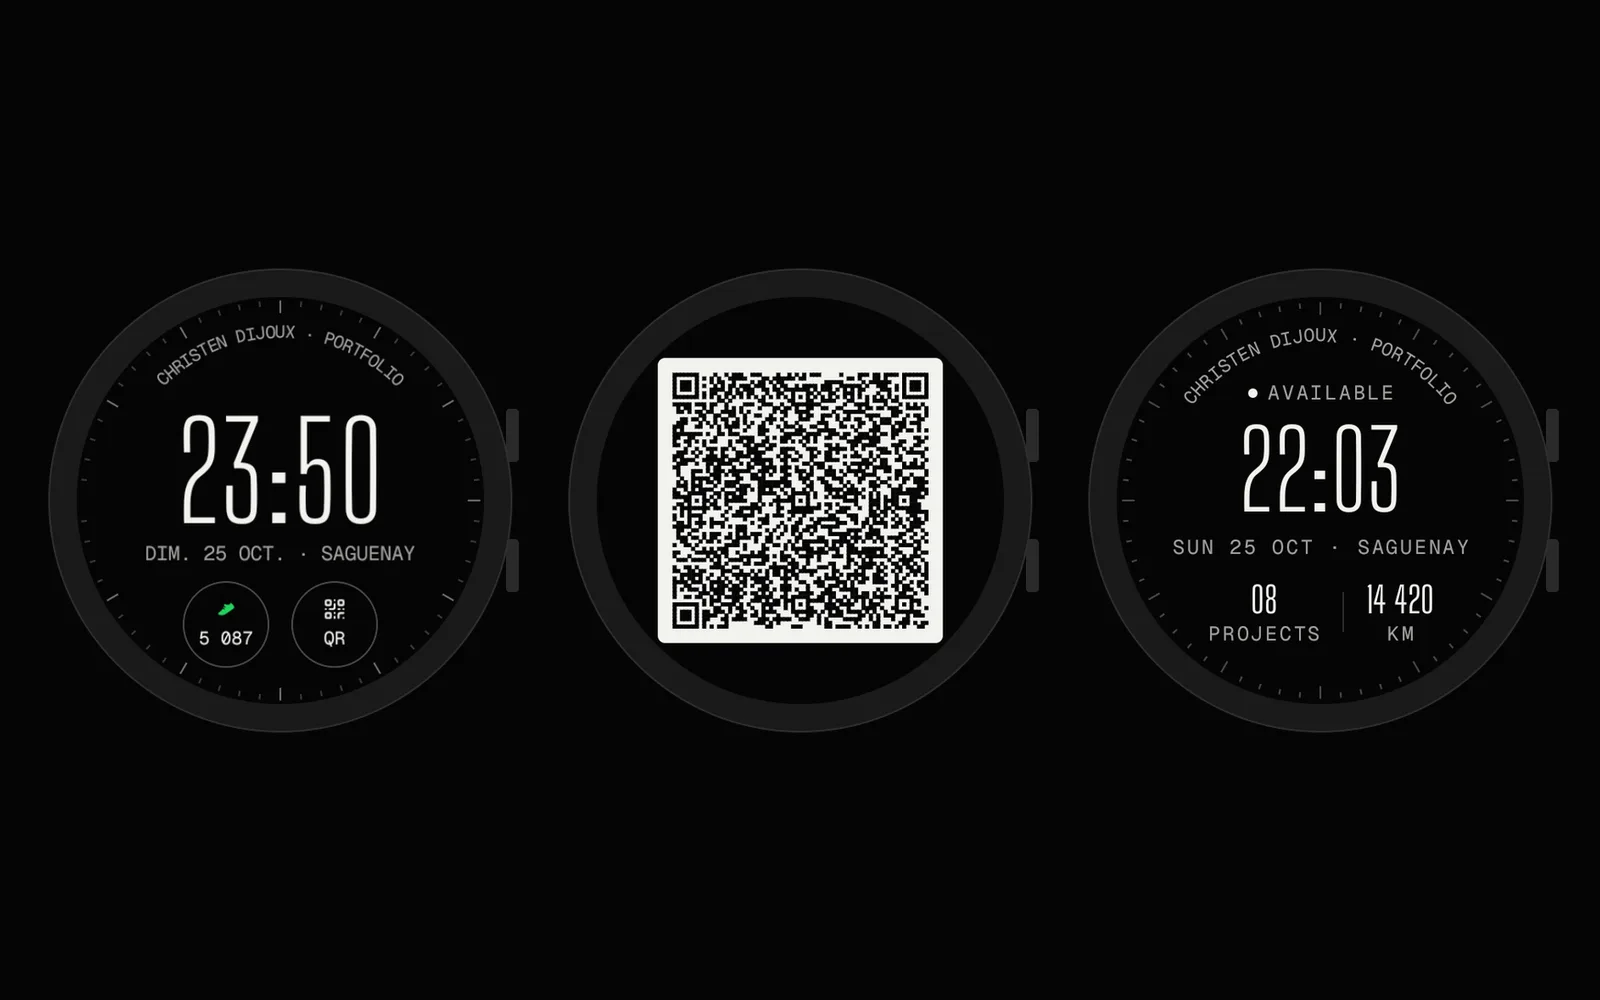
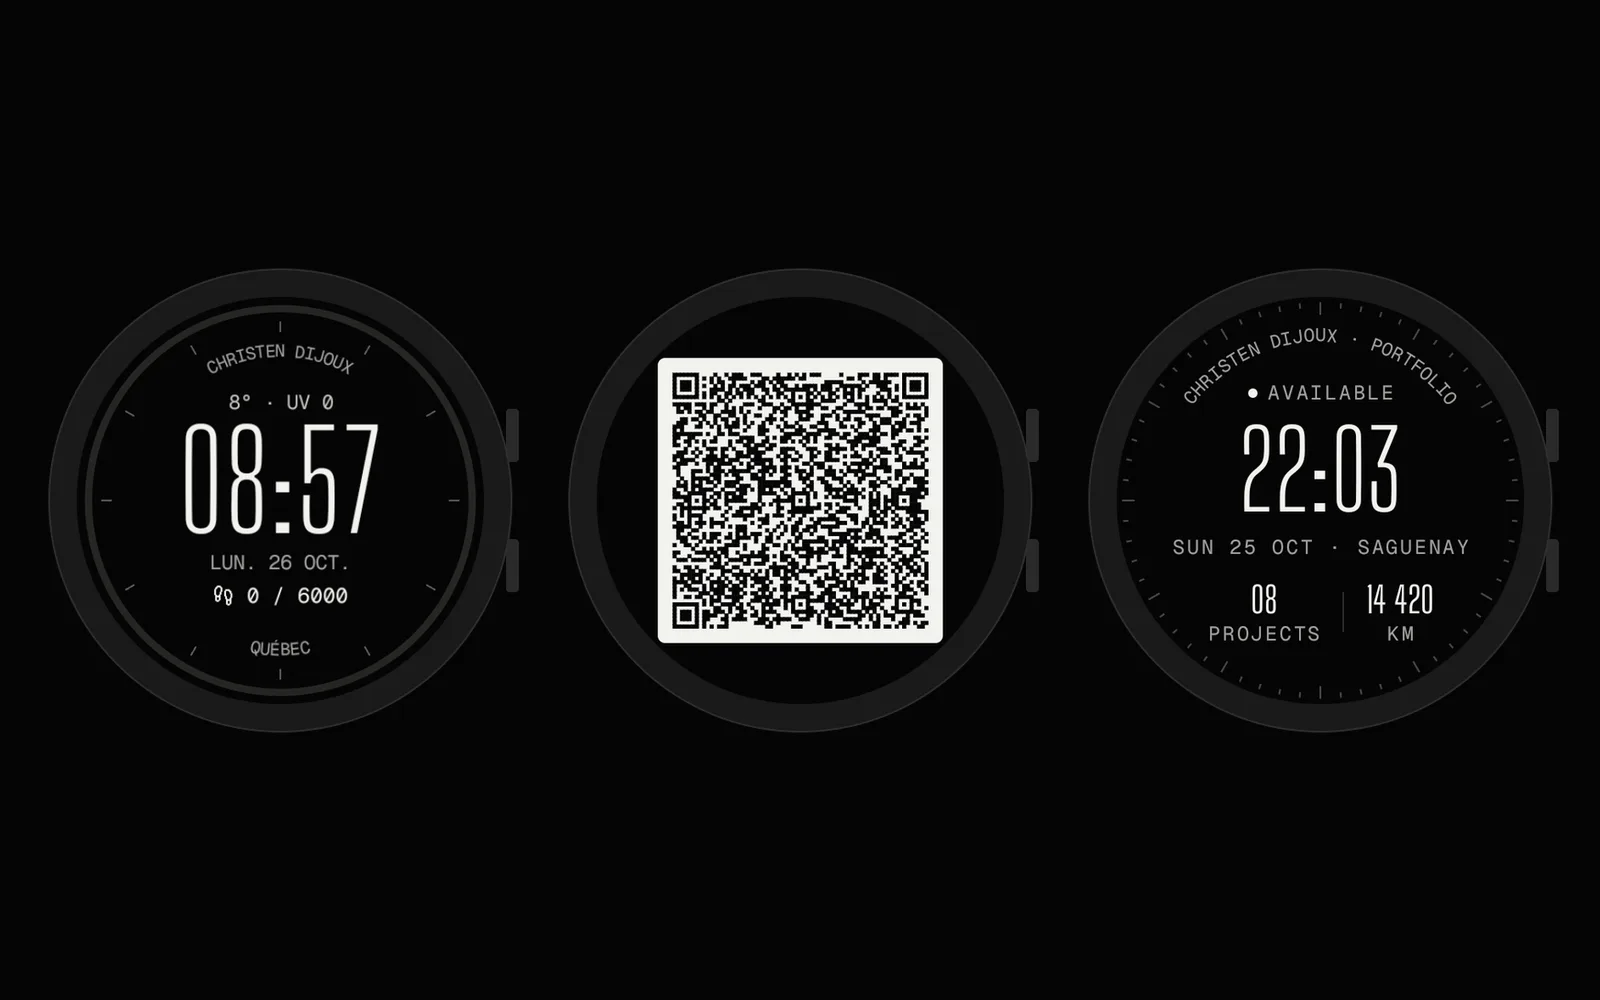
Confidentialité, page Portfolio Watch v0.6 et dépendances (#8)
* fix(confidentialité): texte masqué dans les relectures Sentry, politique à jour

* feat(projets): Portfolio Watch v0.6.0, nouveau cadran (textes FR/EN, galerie, llms.txt)

* perf(pwa): html2pdf et Sentry chargés à la demande, plus en précache

* chore: @emailjs/browser et lenis remplacent les paquets abandonnés, Dependabot

diff --git a/src/data/customProjects.ts b/src/data/customProjects.ts
@@ -345,7 +345,7 @@ export const customProjects: CustomProject[] = [
     name: 'Portfolio Watch',
     title: 'Portfolio Watch - Version Galaxy Watch',
     description: 'Mon portfolio repensé pour un écran rond d\'un pouce et demi : une app Wear OS en Kotlin et Jetpack Compose, installée sur ma Galaxy Watch. Projets, parcours, contact, carte de visite en QR code et mon propre cadran, au poignet.',
-    longDescription: 'Portfolio Watch adapte l\'identité du site (monochrome, éditoriale, typographie condensée) aux codes de Wear OS : heure en haut qui s\'efface au défilement, listes qui suivent la courbe de l\'écran, défilement à la lunette, retour en glissant vers la droite. La version 0.5.0 tourne sur ma Galaxy Watch : un accueil façon cadran, les huit projets du portfolio avec leurs études de cas à ouvrir sur le téléphone, le parcours, le contact, le jeu des étoiles du site et une carte de visite en QR code qu\'un téléphone scanne pour m\'ajouter à ses contacts. Une tuile Wear OS donne accès au QR, à l\'appel et à l\'e-mail en un glissement depuis le cadran, et l\'app passe du français à l\'anglais d\'un toucher. L\'accueil existe aussi en vrai cadran, au Watch Face Format : il remplace celui de Samsung, et sa complication « Ma carte » ouvre le QR d\'un toucher. Côté ingénierie : des releases signées publiées automatiquement par GitHub Actions à chaque tag, des tests unitaires qui relisent réellement le QR, un cadran vérifié par le validateur officiel de Google, et chaque version essayée sur la vraie montre avant d\'être publiée. Prochaine étape : la publication sur le Google Play Store.',
+    longDescription: 'Portfolio Watch adapte l\'identité du site (monochrome, éditoriale, typographie condensée) aux codes de Wear OS : heure en haut qui s\'efface au défilement, listes qui suivent la courbe de l\'écran, défilement à la lunette, retour en glissant vers la droite. La version 0.6.0 tourne sur ma Galaxy Watch : un accueil façon cadran, les huit projets du portfolio avec leurs études de cas à ouvrir sur le téléphone, le parcours, le contact, le jeu des étoiles du site et une carte de visite en QR code qu\'un téléphone scanne pour m\'ajouter à ses contacts. Une tuile Wear OS donne accès au QR, à l\'appel et à l\'e-mail en un glissement depuis le cadran, et l\'app passe du français à l\'anglais d\'un toucher. S\'y ajoute un vrai cadran au thème du site, écrit au Watch Face Format : un anneau qui se remplit avec les pas du jour, la température et l\'indice UV, l\'heure, la date et la ville où je me trouve, fournie par l\'app à partir de la position de la montre. Côté ingénierie : des releases signées publiées automatiquement par GitHub Actions à chaque tag, des tests unitaires qui relisent réellement le QR, un cadran vérifié par le validateur officiel de Google, et chaque version essayée sur la vraie montre avant d\'être publiée. Prochaine étape : la publication sur le Google Play Store.',
     languages: ['Kotlin'],
     topics: ['wear-os', 'galaxy-watch', 'kotlin', 'jetpack-compose', 'wear-os-tiles', 'watch-face', 'qr-code', 'smartwatch', 'android'],
     image: '/assets/portfolio-watch.webp',
@@ -355,7 +355,7 @@ export const customProjects: CustomProject[] = [
       'Les huit projets du portfolio, chaque étude de cas à ouvrir en entier sur le téléphone associé',
       'Carte de visite en QR code (vCard) : un scan ajoute mes coordonnées aux contacts, même montre en veille',
       'Tuile Wear OS : disponibilité, QR, appel et e-mail en un glissement depuis le cadran',
-      'Cadran installable (Watch Face Format) : graduations, nom le long du bord, heure, date et deux complications au choix',
+      'Cadran installable (Watch Face Format) : anneau des pas vers l\'objectif du jour, température et UV, heure, date et ville actuelle',
       'Complication « Ma carte » : le QR en un toucher, sur ce cadran ou sur n\'importe quel autre',
       'Français et anglais, avec un sélecteur FR / EN mémorisé',
       'Parcours La Réunion → Saguenay tracé comme une trajectoire de vol',

diff --git a/src/data/legal.ts b/src/data/legal.ts
@@ -30,7 +30,7 @@ const EMAIL = 'christen.dijoux@gmail.com';
 export const privacy: LegalDoc = {
   title: { fr: 'Confidentialité', en: 'Privacy' },
   kicker: { fr: 'Politique de confidentialité', en: 'Privacy policy' },
-  updated: '2026-10-12',
+  updated: '2026-10-26',
   summary: {
     title: { fr: 'En bref', en: 'In short' },
     items: [
@@ -67,7 +67,7 @@ export const privacy: LegalDoc = {
         { p: { fr: "Suivi des erreurs (avec votre accord)", en: 'Error tracking (with your consent)' } },
         { list: [
           { fr: 'Outil : Sentry. Il enregistre les erreurs techniques (message, navigateur, système, actions ayant précédé l’erreur).', en: 'Tool: Sentry. It records technical errors (message, browser, OS, actions that led to the error).' },
-          { fr: "Il enregistre aussi une relecture de session : environ 10 % des visites, et toutes celles où une erreur survient. Les champs de formulaire y sont toujours masqués.", en: 'It also records a session replay of about 10 % of visits and of every visit where an error occurs. Form fields are always masked.' },
+          { fr: "Il enregistre aussi une relecture de session : environ 10 % des visites, et toutes celles où une erreur survient. Tout le texte y est masqué : ce que vous tapez (formulaire, assistant) et le contenu des pages n'apparaissent jamais en clair.", en: 'It also records a session replay of about 10 % of visits and of every visit where an error occurs. All text is masked: what you type (forms, assistant) and page content never appear in clear.' },
           { fr: 'Finalité : corriger les bugs et garder le site stable.', en: 'Purpose: fixing bugs and keeping the site stable.' },
         ] },
         { p: { fr: 'Jeu des étoiles', en: 'Star game' } },

diff --git a/src/data/caseGallery.ts b/src/data/caseGallery.ts
@@ -19,7 +19,7 @@ export const caseGallery: Record<string, { file: string; alt: { fr: string; en: 
   ],
   'portfolio-watch': [
     { file: 'portfolio-watch-01', alt: { fr: 'Portfolio en version montre : bannière du projet', en: 'Portfolio, watch edition: project banner' } },
-    { file: 'portfolio-watch-05', alt: { fr: "Le cadran Portfolio sur la Galaxy Watch, sa carte QR ouverte d'un toucher, et l'accueil de l'app", en: 'The Portfolio watch face on the Galaxy Watch, its QR card opened with one tap, and the app home screen' } },
+    { file: 'portfolio-watch-05', alt: { fr: "Le cadran sur la Galaxy Watch (anneau des pas, météo et UV, ville actuelle), la carte de visite en QR code et l'accueil de l'app", en: 'The watch face on the Galaxy Watch (step ring, weather and UV, current city), the QR business card and the app home screen' } },
     { file: 'portfolio-watch-02', alt: { fr: 'Menu avec sélecteur FR / EN, liste des 8 projets et étude de cas, sur la vraie Galaxy Watch', en: 'Menu with FR / EN switch, the 8 projects and a case study, on the real Galaxy Watch' } },
     { file: 'portfolio-watch-03', alt: { fr: 'Parcours La Réunion → Saguenay, contact et tuile Wear OS', en: 'Réunion Island → Saguenay journey, contact and Wear OS tile' } },
     { file: 'portfolio-watch-04', alt: { fr: 'Carte de visite en QR code, jeu des étoiles et partie en cours', en: 'QR business card, star game and a round in progress' } },

diff --git a/vite.config.ts b/vite.config.ts
@@ -50,7 +50,9 @@ export default defineConfig(({ command }) => ({
       },
       workbox: {
         globPatterns: ['**/*.{js,css,html,webp}'],
-        globIgnores: ['**/apple-touch-icon.png', '**/favicon*.{png,ico,svg}'],
+        // html2pdf (1 Mo, générateur de lettres) et Sentry (400 Ko, seulement après consentement) se chargent à la demande :
+        // inutile de les télécharger d'avance pour chaque visiteur
+        globIgnores: ['**/apple-touch-icon.png', '**/favicon*.{png,ico,svg}', '**/html2pdf-*.js', '**/sentry-*.js'],
         dontCacheBustURLsMatching: /\.(webp)$/,
         runtimeCaching: [
           {
@@ -92,6 +94,8 @@ export default defineConfig(({ command }) => ({
           'gsap-vendor': ['gsap'],
           'framer-motion': ['framer-motion'],
           'i18n': ['i18next', 'react-i18next'],
+          // Nommé pour pouvoir l'exclure du précache (voir workbox.globIgnores)
+          'sentry': ['@sentry/react'],
         },
       },
     },

diff --git a/src/tests/ContactSection.test.tsx b/src/tests/ContactSection.test.tsx
@@ -3,9 +3,9 @@ import { render, screen, fireEvent, act } from '@testing-library/react';
 import userEvent from '@testing-library/user-event';
 import { ContactSection } from '../components/ContactSection';
 import { StarProvider } from '../contexts/StarContext';
-import emailjs from 'emailjs-com';
+import emailjs from '@emailjs/browser';
 
-vi.mock('emailjs-com', () => ({ default: { sendForm: vi.fn() } }));
+vi.mock('@emailjs/browser', () => ({ default: { sendForm: vi.fn() } }));
 
 describe('ContactSection Component', () => {
   it('should render contact form with all fields', () => {

diff --git a/src/components/ContactSection.tsx b/src/components/ContactSection.tsx
@@ -2,7 +2,7 @@ import React, { useState, useRef, useEffect } from 'react';
 import { useTranslation } from 'react-i18next';
 import { Mail, Phone, MapPin, Github, Linkedin, X, ArrowRight, ArrowUpRight, Star } from 'lucide-react';
 import { useStar } from '../contexts/StarContext';
-import emailjs from 'emailjs-com';
+import emailjs from '@emailjs/browser';
 import gsap from 'gsap';
 import { ScrollTrigger } from 'gsap/ScrollTrigger';
 import { SectionLabel } from './ui/Editorial';

diff --git a/src/lib/sentry.ts b/src/lib/sentry.ts
@@ -32,7 +32,8 @@ export const initSentry = async () => {
     integrations: [
       Sentry.browserTracingIntegration(),
       Sentry.replayIntegration({
-        maskAllText: false,
+        // Texte masqué : les messages tapés dans l'assistant et le contenu des pages ne sont jamais enregistrés
+        maskAllText: true,
         maskAllInputs: true, // les champs du formulaire de contact ne sont jamais enregistrés
         blockAllMedia: false,
       }),

diff --git a/src/lib/motion.ts b/src/lib/motion.ts
@@ -1,4 +1,4 @@
-import Lenis from '@studio-freight/lenis';
+import Lenis from 'lenis';
 import { gsap } from 'gsap';
 import { ScrollTrigger } from 'gsap/ScrollTrigger';
 
